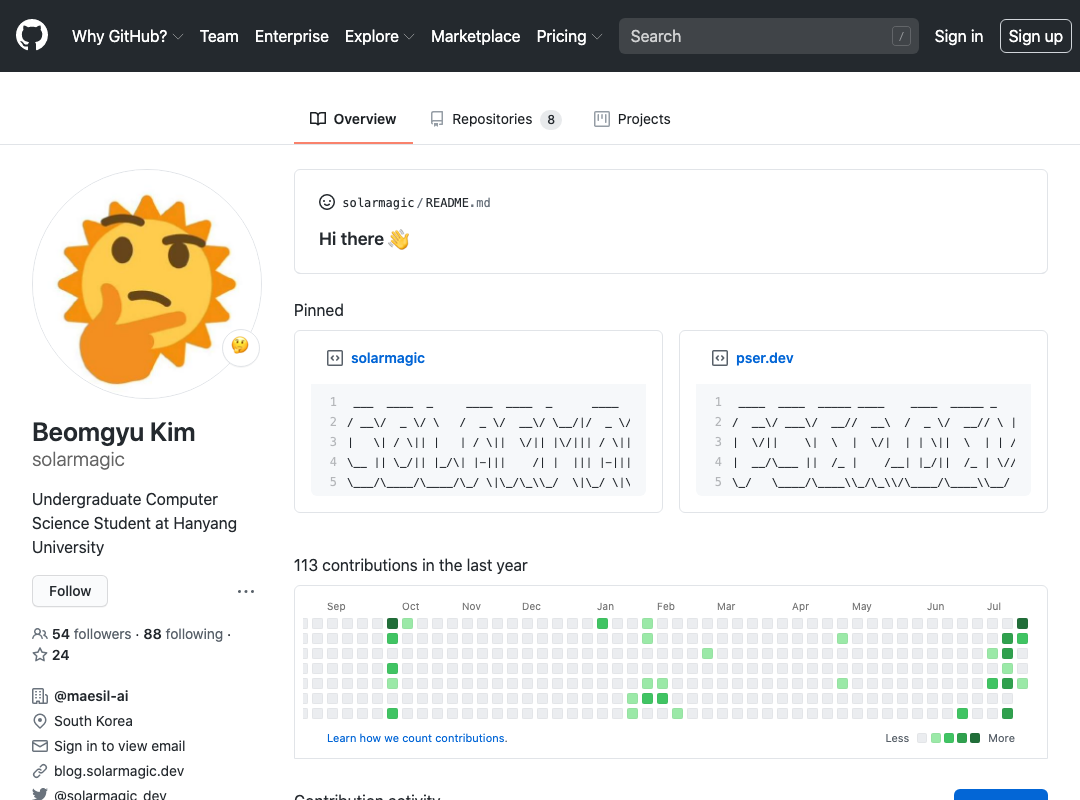
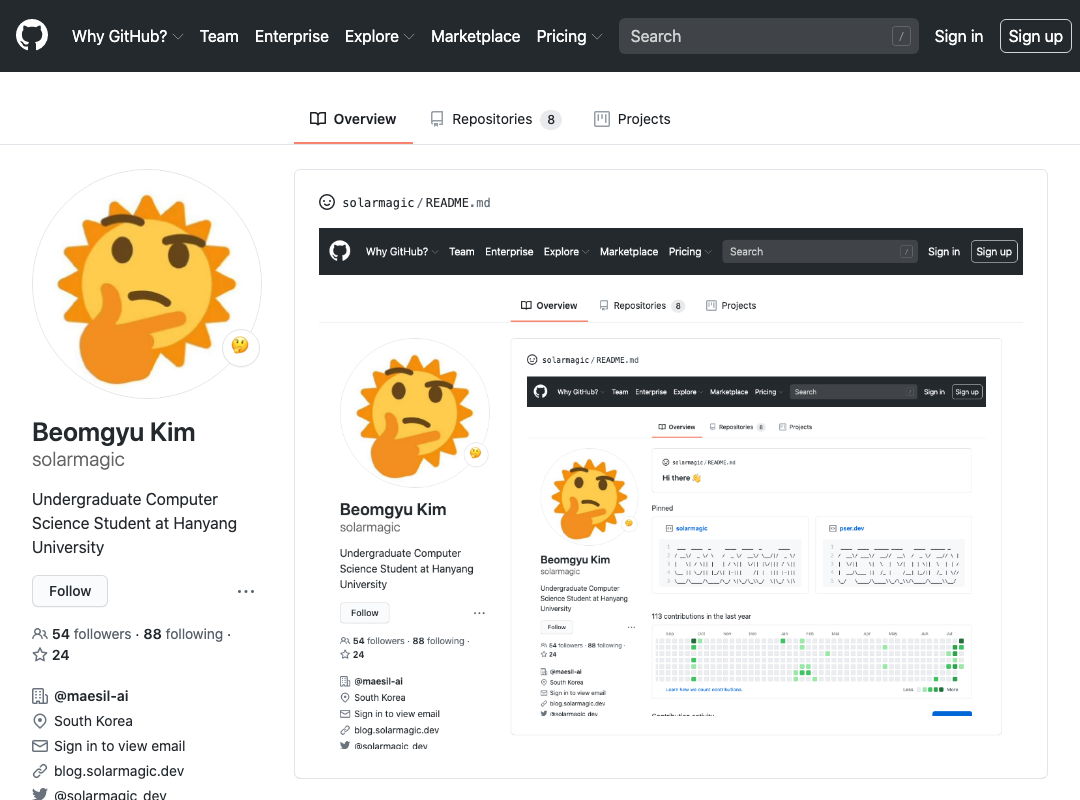
"adds new screenshot at depth 3"

diff --git a/README.md b/README.md
@@ -1,1 +1,1 @@
-![Woah!](https://github.com/solarmagic/solarmagic/blob/master/screenshot-1.png)
+![Woah!](https://github.com/solarmagic/solarmagic/blob/master/screenshot-3.png)
